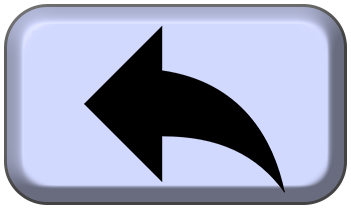
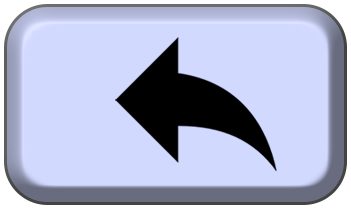
анимация хода назад

Changed region(s): [[0.2279, 0.1148, 0.8262, 0.9187], [0.7123, 0.5455, 0.7692, 0.689]]

diff --git a/main.py b/main.py
@@ -29,7 +29,6 @@ class SettingsScreen(QWidget, Ui_Form):
         self.speed_spin_box.setValue(self.main_window.speed_of_play_buttons)
         self.speed_spin_box.valueChanged.connect(self.refresh_speed_value)
         self.language_comboBox.activated[str].connect(self.change_language)
-
         self.refresh_language()
 
     def back_to_menu(self):
@@ -64,18 +63,25 @@ class SettingsScreen(QWidget, Ui_Form):
 
         if self.main_window.language == "ru":
             self.language_comboBox.clear()
-            self.language_comboBox.addItem("Русский")
             self.language_comboBox.addItem("English")
+            self.language_comboBox.addItem("Русский")
+
             self.settings_label.setText("Настройки")
             self.speed_label.setText("Скорость")
             self.language_label.setText("Язык")
+            self.back_move_label.setText("Анимация хода назад")
+
+            self.language_label.setText("Язык")
         elif self.main_window.language == "us":
             self.language_comboBox.clear()
-            self.language_comboBox.addItem("English")
             self.language_comboBox.addItem("Русский")
+            self.language_comboBox.addItem("English")
+
+
             self.settings_label.setText("Settings")
             self.speed_label.setText("Speed")
             self.language_label.setText("Language")
+            self.back_move_label.setText("Animation of back")
 
 
 class BarleyBreakMainWindow(QMainWindow, Ui_MainWindow):
@@ -133,6 +139,8 @@ class BarleyBreakMainWindow(QMainWindow, Ui_MainWindow):
         self.setStatusBar(self.statusBar)
         self.statusBar.clearMessage()
         self.statusBar.setFont(QFont("Comic Sans MS", 10))
+
+        self.animation_back_move_btn = False
 
         # устанавливаем звук
         self.sound_play_buttons = QSound("sounds/play_button_sound.wav")
@@ -437,14 +445,16 @@ class BarleyBreakMainWindow(QMainWindow, Ui_MainWindow):
                         step = 4
                     buttons = [(self.field[i], i) for i in range(pos_of_btn, pos_of_empty_btn, step)][::-1]
                     animation_group = QParallelAnimationGroup(self)
+                    self.list_for_moves = []
                     for button, pos in buttons:
                         new_x, new_y = self.positions[pos + step]
                         animation = QPropertyAnimation(button, b"pos", self)
                         animation.setEndValue(QPoint(new_x, new_y))
                         animation.setDuration(self.speeds_of_play_buttons[self.speed_of_play_buttons])
                         animation_group.addAnimation(animation)
-                        self.moves.append((button, self.positions[pos], (new_x, new_y)))
+                        self.list_for_moves.append((button, self.positions[pos], (new_x, new_y)))
                     animation_group.start()
+                    self.moves.append(self.list_for_moves)
                     if len(buttons) == 1:
                         self.field[pos_of_btn], self.field[pos_of_btn + step] = \
                             self.field[pos_of_empty_btn], self.field[pos_of_btn]
@@ -468,14 +478,16 @@ class BarleyBreakMainWindow(QMainWindow, Ui_MainWindow):
                         step = 1
                     buttons = [(self.field[i], i) for i in range(pos_of_btn, pos_of_empty_btn, step)][::-1]
                     animation_group = QParallelAnimationGroup(self)
+                    self.list_for_moves = []
                     for button, pos in buttons:
                         new_x, new_y = self.positions[pos + step]
                         animation = QPropertyAnimation(button, b"pos", self)
                         animation.setEndValue(QPoint(new_x, new_y))
                         animation.setDuration(self.speeds_of_play_buttons[self.speed_of_play_buttons])
                         animation_group.addAnimation(animation)
-                        self.moves.append((button, self.positions[pos], (new_x, new_y)))
+                        self.list_for_moves.append((button, self.positions[pos], (new_x, new_y)))
                     animation_group.start()
+                    self.moves.append(self.list_for_moves)
                     if len(buttons) == 1:
                         self.field[pos_of_btn], self.field[pos_of_btn + step] = \
                             self.field[pos_of_empty_btn], self.field[pos_of_btn]
@@ -519,23 +531,55 @@ class BarleyBreakMainWindow(QMainWindow, Ui_MainWindow):
             """начальное поле игрок еще не перемешал пятнашки"""
 
     def back_move(self):
+        self.statusBar.clearMessage()
         btn = self.sender()
         if btn == self.back_move_btn:
             self.animation_of_button(btn)
-        if self.moves:
-            i = self.moves.pop()
-            empty_index = self.field.index(self.empty)
-            btn = i[0]
-            btn_index = self.field.index(btn)
-            x1, y1 = i[1]
-            x2, y2 = i[2]
-            btn.move(x1, y1)
-            self.empty.move(x2, y2)
-            self.field[btn_index], self.field[empty_index] = self.field[empty_index], self.field[btn_index]
-            self.count_of_steps -= 1
-            self.display_steps()
+        if self.game_is_started:
+            if self.timer_is_started:
+                if self.moves:
+                    buttons = self.moves.pop()
+                    if not self.animation_back_move_btn:
+                        for button, old_pos, pos in buttons[::-1]:
+                            x1, y1 = old_pos
+                            x2, y2 = pos
+                            button.move(x1, y1)
+                            self.empty.move(x2, y2)
+                            btn_index = self.field.index(button)
+                            empty_index = self.field.index(self.empty)
+                            self.field[btn_index], self.field[empty_index] = self.field[empty_index], self.field[btn_index]
+                            self.count_of_steps -= 1
+                    else:
+                        animation_group = QParallelAnimationGroup(self)
+                        for button, old_pos, pos in buttons[::-1]:
+                            x1, y1 = old_pos
+                            x2, y2 = pos
+                            animation = QPropertyAnimation(button, b"pos", self)
+                            animation.setEndValue(QPoint(x1, y1))
+                            animation.setDuration(self.speeds_of_play_buttons[self.speed_of_play_buttons])
+                            animation_group.addAnimation(animation)
+                            self.empty.move(x2, y2)
+                            btn_index = self.field.index(button)
+                            empty_index = self.field.index(self.empty)
+                            self.field[btn_index], self.field[empty_index] = self.field[empty_index], self.field[btn_index]
+                            self.count_of_steps -= 1
+                        animation_group.start()
+                    self.display_steps()
+                else:
+                    if self.language == "us":
+                        self.statusBar.showMessage("You should do a move first")
+                    elif self.language == "ru":
+                        self.statusBar.showMessage("Сперва сделайте ход")
+            else:
+                if self.language == "us":
+                    self.statusBar.showMessage("You should start a timer first")
+                elif self.language == "ru":
+                    self.statusBar.showMessage("Сперва запустите таймер")
         else:
-            pass
+            if self.language == "us":
+                self.statusBar.showMessage("You should start a game first")
+            elif self.language == "ru":
+                self.statusBar.showMessage("Сперва начните игру")
 
     def new_game(self):
         """новая игра, обновляется таймер, информация о времени, кнопка рестарт и поле"""

diff --git a/BarleyBreakSettingsWindow.py b/BarleyBreakSettingsWindow.py
@@ -29,19 +29,11 @@ class Ui_Form(object):
         self.back_btn.setText("")
         self.back_btn.setObjectName("back_btn")
         self.gridLayoutWidget = QtWidgets.QWidget(Form)
-        self.gridLayoutWidget.setGeometry(QtCore.QRect(200, 190, 581, 161))
+        self.gridLayoutWidget.setGeometry(QtCore.QRect(240, 200, 571, 191))
         self.gridLayoutWidget.setObjectName("gridLayoutWidget")
         self.gridLayout = QtWidgets.QGridLayout(self.gridLayoutWidget)
         self.gridLayout.setContentsMargins(0, 0, 0, 0)
         self.gridLayout.setObjectName("gridLayout")
-        self.speed_label = QtWidgets.QLabel(self.gridLayoutWidget)
-        font = QtGui.QFont()
-        font.setFamily("Comic Sans MS")
-        font.setPointSize(20)
-        self.speed_label.setFont(font)
-        self.speed_label.setAlignment(QtCore.Qt.AlignRight|QtCore.Qt.AlignTrailing|QtCore.Qt.AlignVCenter)
-        self.speed_label.setObjectName("speed_label")
-        self.gridLayout.addWidget(self.speed_label, 0, 0, 1, 1)
         self.language_label = QtWidgets.QLabel(self.gridLayoutWidget)
         font = QtGui.QFont()
         font.setFamily("Comic Sans MS")
@@ -50,7 +42,39 @@ class Ui_Form(object):
         self.language_label.setAlignment(QtCore.Qt.AlignRight|QtCore.Qt.AlignTrailing|QtCore.Qt.AlignVCenter)
         self.language_label.setObjectName("language_label")
         self.gridLayout.addWidget(self.language_label, 1, 0, 1, 1)
+        self.language_comboBox = QtWidgets.QComboBox(self.gridLayoutWidget)
+        sizePolicy = QtWidgets.QSizePolicy(QtWidgets.QSizePolicy.Preferred, QtWidgets.QSizePolicy.Preferred)
+        sizePolicy.setHorizontalStretch(0)
+        sizePolicy.setVerticalStretch(0)
+        sizePolicy.setHeightForWidth(self.language_comboBox.sizePolicy().hasHeightForWidth())
+        self.language_comboBox.setSizePolicy(sizePolicy)
+        font = QtGui.QFont()
+        font.setFamily("Comic Sans MS")
+        font.setPointSize(14)
+        font.setBold(True)
+        font.setWeight(75)
+        self.language_comboBox.setFont(font)
+        self.language_comboBox.setStyleSheet("border: 2px solid grey;\n"
+"background-color: rgb(87, 96, 134);\n"
+"color:  rgb(255, 255, 255);\n"
+"font-weight: bold;\n"
+"padding: 5px;")
+        self.language_comboBox.setObjectName("language_comboBox")
+        self.gridLayout.addWidget(self.language_comboBox, 1, 1, 1, 1)
+        self.speed_label = QtWidgets.QLabel(self.gridLayoutWidget)
+        font = QtGui.QFont()
+        font.setFamily("Comic Sans MS")
+        font.setPointSize(20)
+        self.speed_label.setFont(font)
+        self.speed_label.setAlignment(QtCore.Qt.AlignRight|QtCore.Qt.AlignTrailing|QtCore.Qt.AlignVCenter)
+        self.speed_label.setObjectName("speed_label")
+        self.gridLayout.addWidget(self.speed_label, 0, 0, 1, 1)
         self.speed_spin_box = QtWidgets.QSpinBox(self.gridLayoutWidget)
+        sizePolicy = QtWidgets.QSizePolicy(QtWidgets.QSizePolicy.Preferred, QtWidgets.QSizePolicy.Preferred)
+        sizePolicy.setHorizontalStretch(0)
+        sizePolicy.setVerticalStretch(0)
+        sizePolicy.setHeightForWidth(self.speed_spin_box.sizePolicy().hasHeightForWidth())
+        self.speed_spin_box.setSizePolicy(sizePolicy)
         font = QtGui.QFont()
         font.setFamily("Comic Sans MS")
         font.setPointSize(20)
@@ -68,20 +92,33 @@ class Ui_Form(object):
         self.speed_spin_box.setProperty("value", 3)
         self.speed_spin_box.setObjectName("speed_spin_box")
         self.gridLayout.addWidget(self.speed_spin_box, 0, 1, 1, 1)
-        self.language_comboBox = QtWidgets.QComboBox(self.gridLayoutWidget)
+        self.back_move_label = QtWidgets.QLabel(self.gridLayoutWidget)
+        font = QtGui.QFont()
+        font.setFamily("Comic Sans MS")
+        font.setPointSize(20)
+        self.back_move_label.setFont(font)
+        self.back_move_label.setAlignment(QtCore.Qt.AlignRight|QtCore.Qt.AlignTrailing|QtCore.Qt.AlignVCenter)
+        self.back_move_label.setObjectName("back_move_label")
+        self.gridLayout.addWidget(self.back_move_label, 2, 0, 1, 1)
+        self.back_move_comboBox = QtWidgets.QComboBox(self.gridLayoutWidget)
+        sizePolicy = QtWidgets.QSizePolicy(QtWidgets.QSizePolicy.Preferred, QtWidgets.QSizePolicy.Preferred)
+        sizePolicy.setHorizontalStretch(0)
+        sizePolicy.setVerticalStretch(0)
+        sizePolicy.setHeightForWidth(self.back_move_comboBox.sizePolicy().hasHeightForWidth())
+        self.back_move_comboBox.setSizePolicy(sizePolicy)
         font = QtGui.QFont()
         font.setFamily("Comic Sans MS")
         font.setPointSize(14)
         font.setBold(True)
         font.setWeight(75)
-        self.language_comboBox.setFont(font)
-        self.language_comboBox.setStyleSheet("border: 2px solid grey;\n"
+        self.back_move_comboBox.setFont(font)
+        self.back_move_comboBox.setStyleSheet("border: 2px solid grey;\n"
 "background-color: rgb(87, 96, 134);\n"
 "color:  rgb(255, 255, 255);\n"
 "font-weight: bold;\n"
 "padding: 5px;")
-        self.language_comboBox.setObjectName("language_comboBox")
-        self.gridLayout.addWidget(self.language_comboBox, 1, 1, 1, 1)
+        self.back_move_comboBox.setObjectName("back_move_comboBox")
+        self.gridLayout.addWidget(self.back_move_comboBox, 2, 1, 1, 1)
 
         self.retranslateUi(Form)
         QtCore.QMetaObject.connectSlotsByName(Form)
@@ -90,5 +127,6 @@ class Ui_Form(object):
         _translate = QtCore.QCoreApplication.translate
         Form.setWindowTitle(_translate("Form", "Settings"))
         self.settings_label.setText(_translate("Form", "Settings"))
-        self.speed_label.setText(_translate("Form", "Speed"))
         self.language_label.setText(_translate("Form", "Language"))
+        self.speed_label.setText(_translate("Form", "Speed"))
+        self.back_move_label.setText(_translate("Form", "Back move button"))
